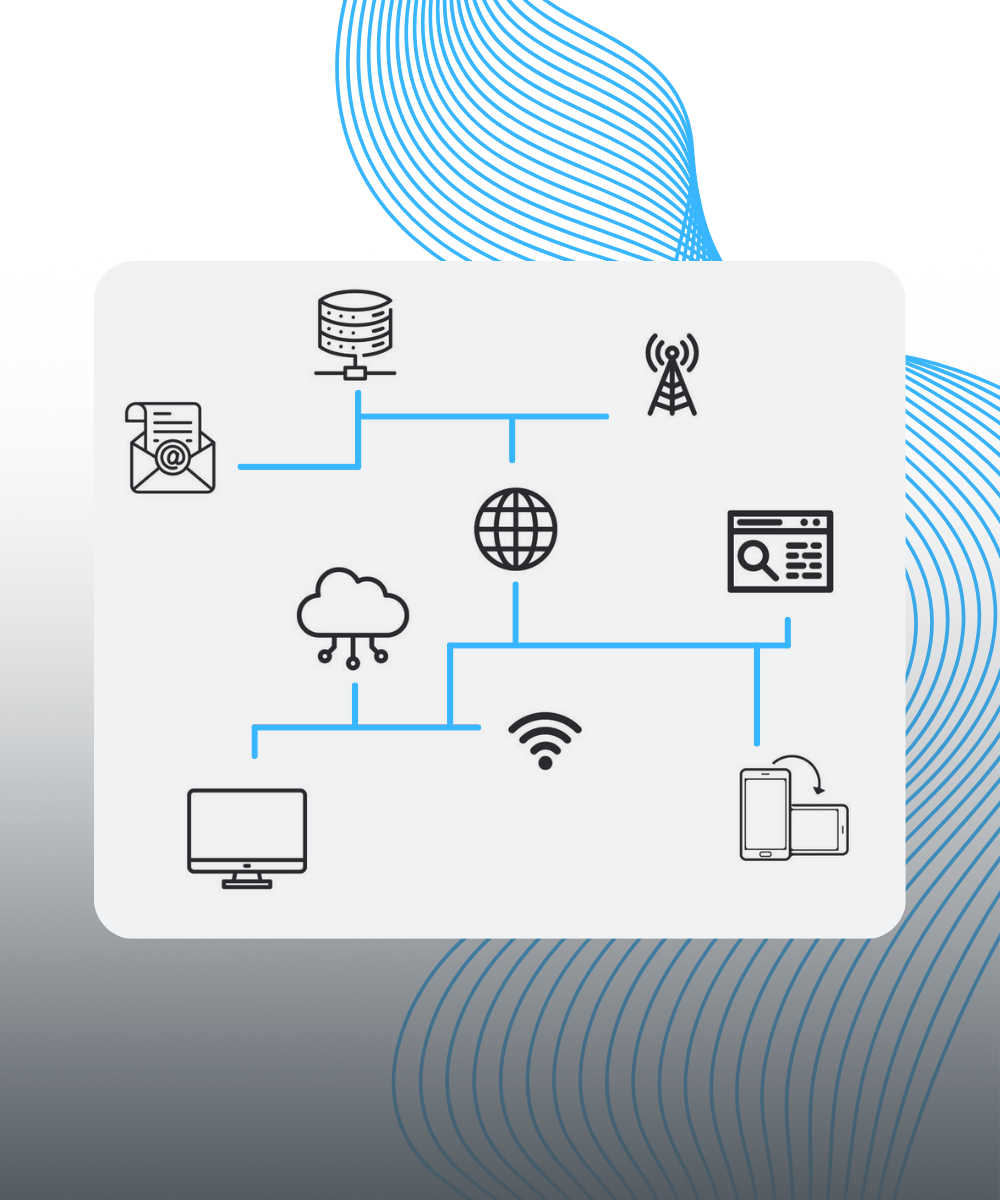
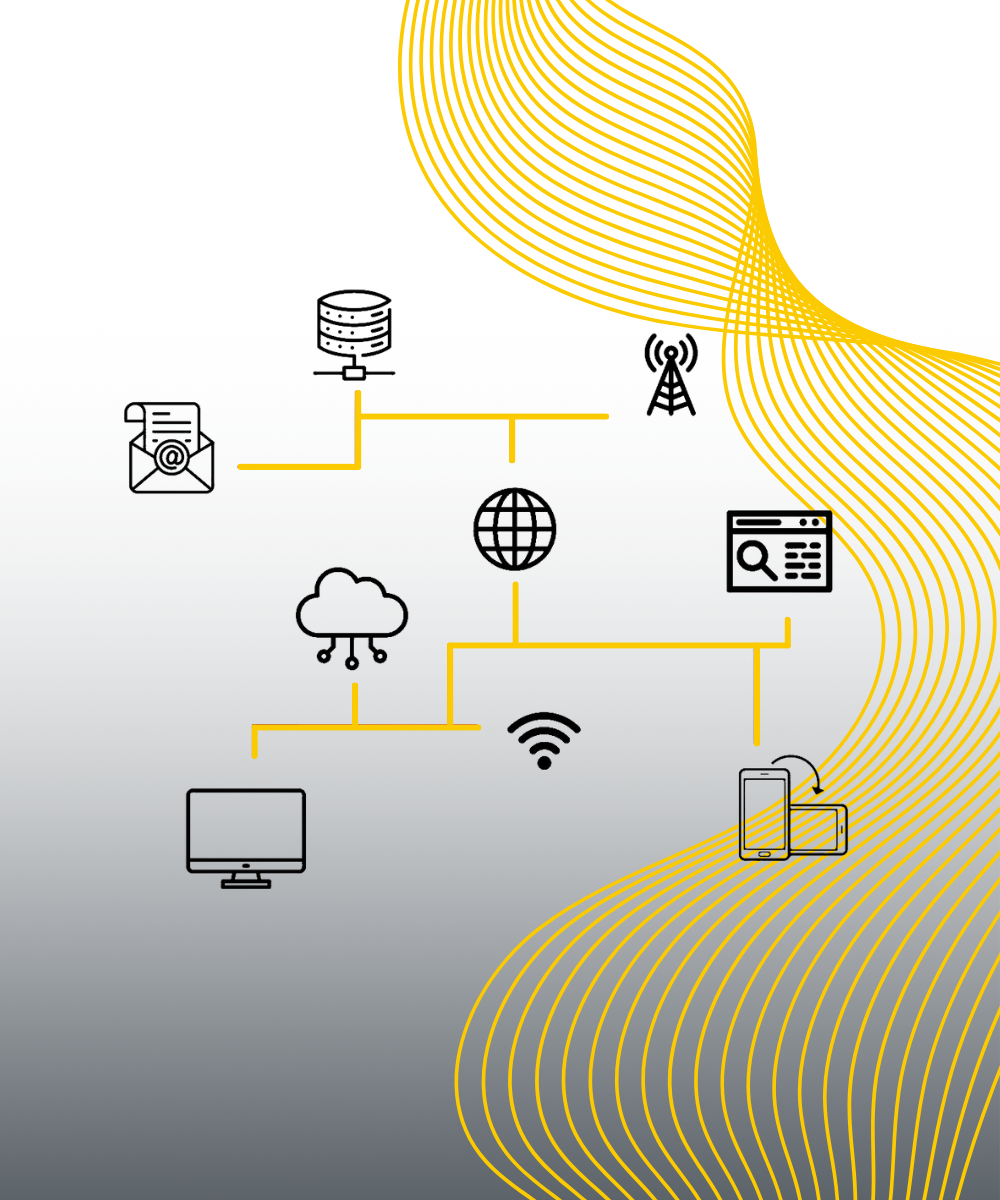
se cambiaron las imagenes del sub menu en color amarillo y se agrego una ubicacion en el mapa

diff --git a/src/Components/Map.jsx b/src/Components/Map.jsx
@@ -8,6 +8,7 @@ const Map = () => {
   const Insoel = [20.140833, -101.190961];
   const Solena = [21.089017, -101.594047];
   const UAT = [20.705077, -100.450834];
+  const IRA = [20.661059, -101.308844];
 
   const insoelIcon = new L.Icon({
     iconUrl: markerIcon,
@@ -67,6 +68,9 @@ const Map = () => {
 
         <Marker position={Solena} icon={insoelIcon}>
           <Popup>Solena</Popup>
+        </Marker>
+        <Marker position={IRA} icon={insoelIcon}>
+          <Popup>Irapuato</Popup>
         </Marker>
 
         <Marker position={UAT} icon={insoelIcon}>

diff --git a/src/Components/Navbar_Context.jsx b/src/Components/Navbar_Context.jsx
@@ -13,7 +13,7 @@ import LogoAzulBlanco from "../img/Logos/AzulBlanco.png";
 
 // Importa tus imágenes dinámicamente para seccion de ¿que hacemos?
 import image1 from "../img/Submenu/Industria_Integracion_01.jpg";
-import image2 from "../img/Submenu/implementacion.jpg";
+import image2 from "../img/Submenu/implementacion.png";
 import image3 from "../img/Submenu/TI.png";
 import image4 from "../img/Submenu/adquisicion.png";
 
